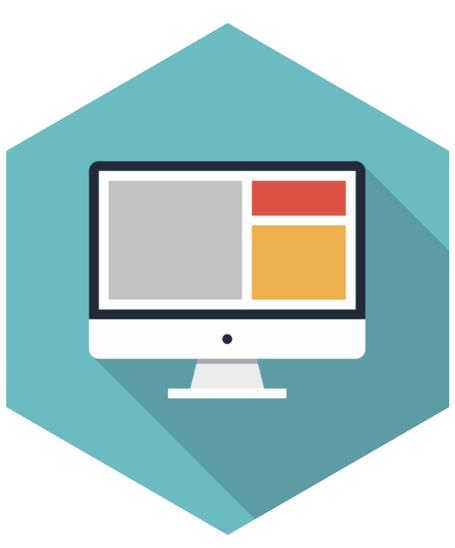
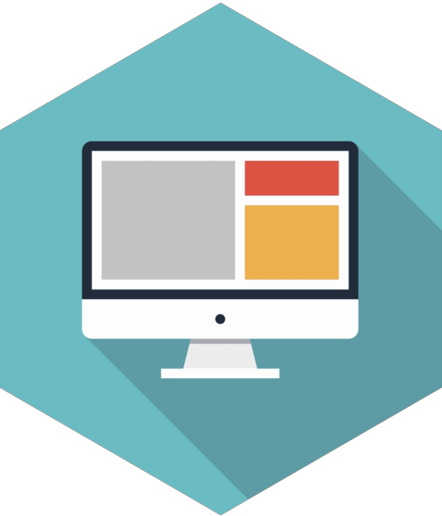
first commit

diff --git a/index.html b/index.html
@@ -21,7 +21,7 @@
             </ul>
         </div>
         <div class="t-right">
-            <img src="img.jpg" alt="" class="img-style">
+            <img src="p2.png" alt="" class="img-style">
         </div>
         
     </div>
@@ -29,12 +29,12 @@
     <div class="main mid">
 
         <div class="m-left">
-            <img src="img.jpg" alt="" class="img-style">
+            <img src="p1.png" alt="" class="img-style">
         </div>
         <div class="m-right">
             <h2>About Me</h2>
-            <p>Lorem ipsum dolor sit amet consectetur adipisicing elit. Nihil, natus quis inventore tempora a corporis, ipsum sed doloribus cupiditate quas praesentium nobis porro modi eos ducimus necessitatibus, eveniet ratione tempore.</p>
-            <p>Lorem, ipsum dolor sit amet consectetur adipisicing elit. Temporibus blanditiis suscipit ipsa, nulla similique assumenda. Unde veniam cum dolores quas!</p>
+            <p>I am Soumik Dutta. I am currently an undergraduate student of IUB, studying in CSE departement. I love solving programming problems. I am also learning Web development & App development.</p>
+            <p>If you want to know more about me than here is my <a href="https://www.linkedin.com/in/soumikdutta616/">Linkedin</a>  profile. </p>
         </div>
         
         
@@ -47,8 +47,8 @@
         
         <div class="box b-left">
             <img src="programming.png" alt="" class="icon">
-            <h2>Programming</h2>
-            <p>Programming is the process of giving machines a set of instructions that describe how a program should be carried out. Programmers will start by using a code editor or IDE to write what is called source code. This is a collection of code written in a programming language that other programmers can read.</p>
+            <h2>C++ Programming</h2>
+            <p>C++ is a middle-level programming language developed by Bjarne Stroustrup starting in 1979 at Bell Labs. C++ runs on a variety of platforms, such as Windows, Mac OS, and the various versions of UNIX. C++ is a MUST for students and working professionals to become a great Software Engineer.</p>
         </div>
         <div class="box b-mid">
             <img src="web.png" alt="" class="icon">

diff --git a/style.css b/style.css
@@ -17,10 +17,12 @@ p{
     font-size: 18px;
     color: grey;
 }
+
 ul{
     font-size: 18px;
     color: grey;
 }
+
 .main{
     margin: 15px;
     padding: 5px;
@@ -42,8 +44,8 @@ ul{
 
 .m-left{
     padding: 20px;
-    margin-left: 20%;
-    margin-right: 10%;  
+    margin-left: 15%;
+    margin-right: 5%;  
 }
 .m-right{
     margin-right: 20px;
@@ -51,7 +53,7 @@ ul{
 }
 
 .img-style{
-    width: 150px;
+    width: 300px;
 
 }
 .icon{
